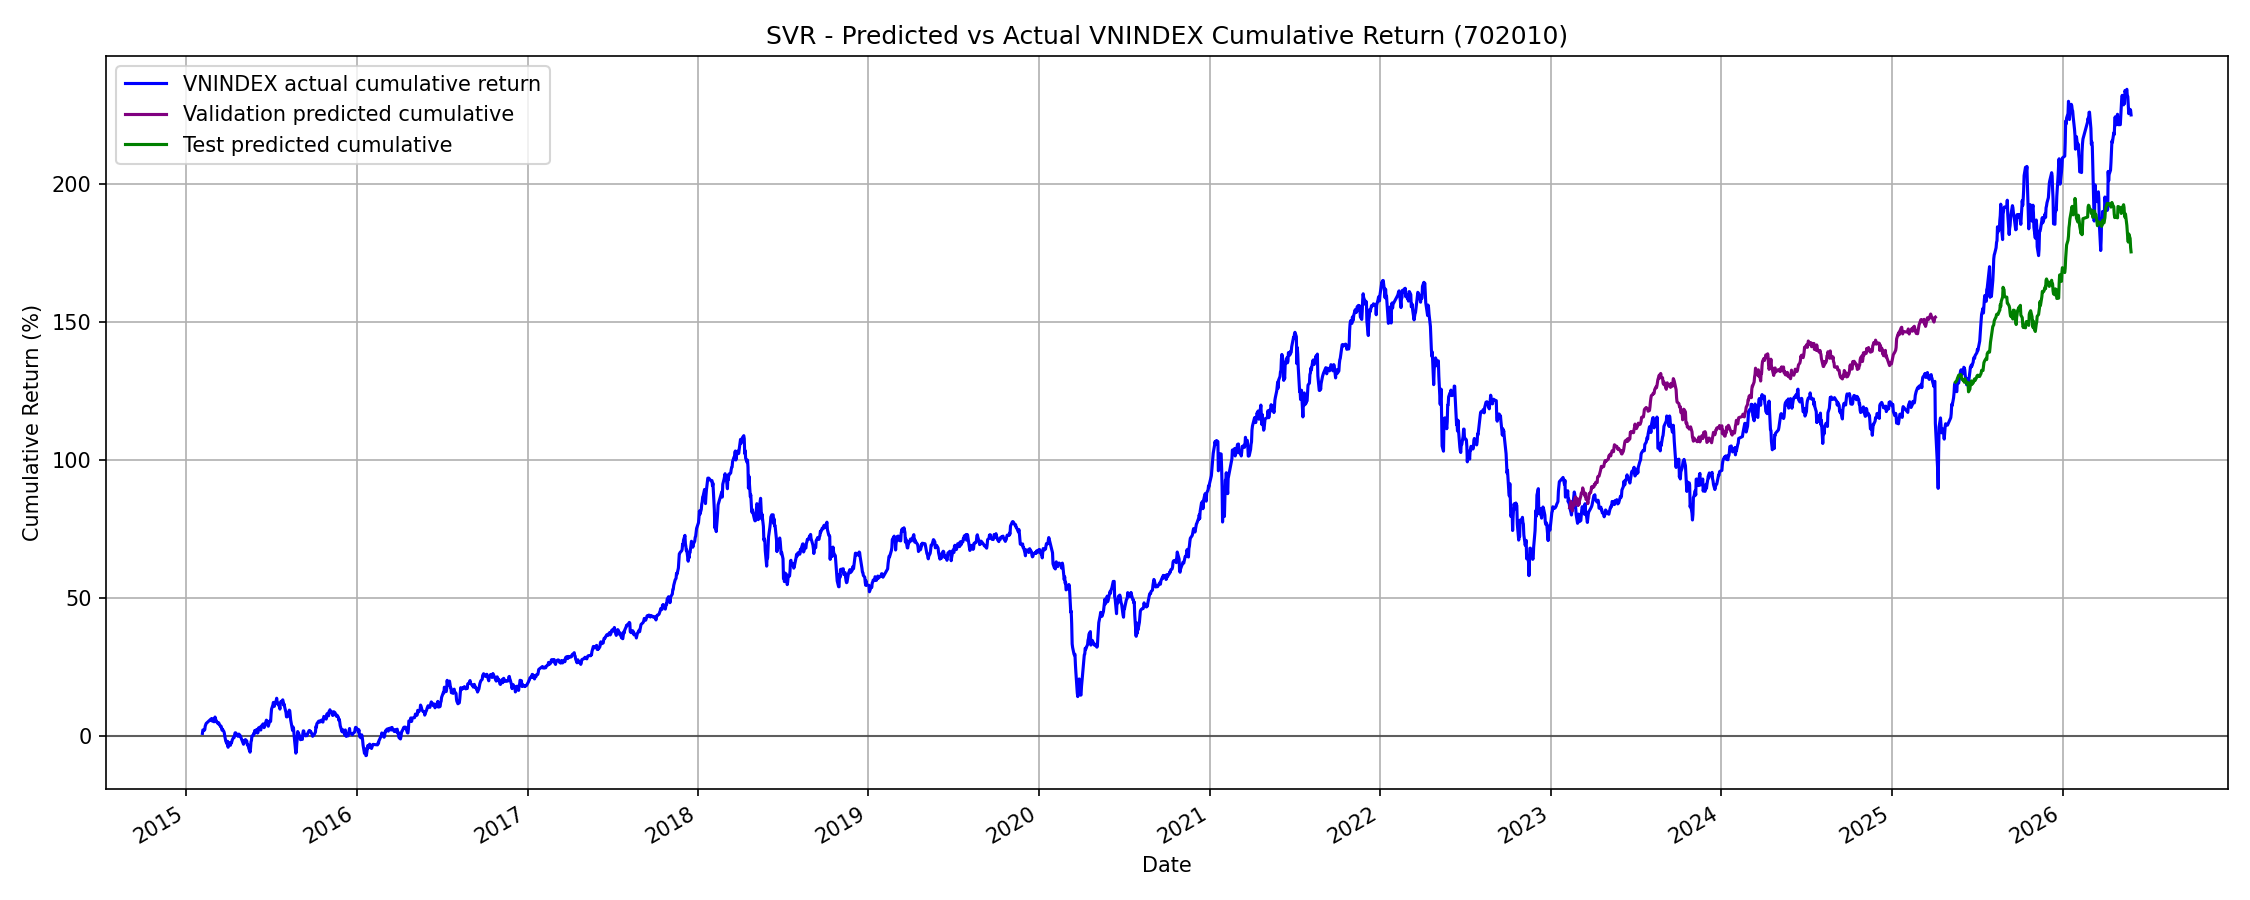
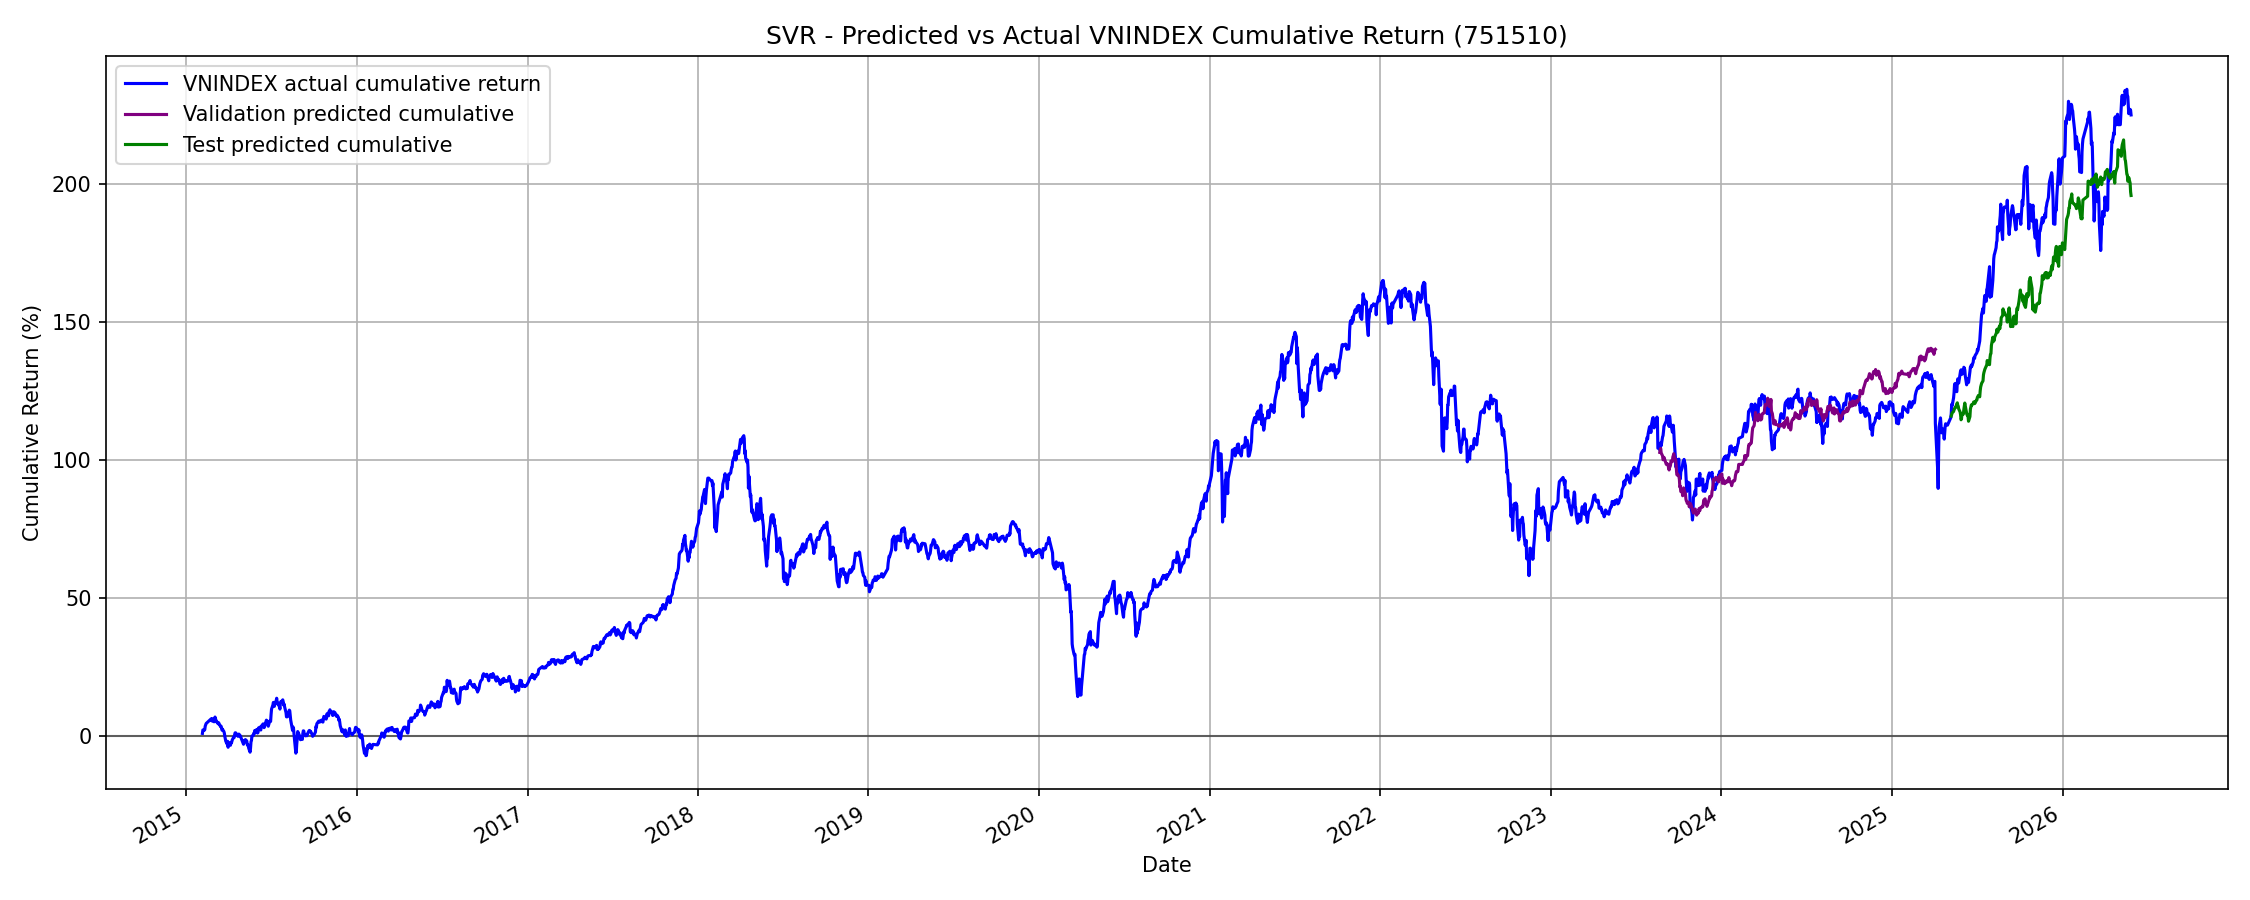
SVR

diff --git a/Model/SVR/svr_pipeline_75_15_10_ver2.py b/Model/SVR/svr_pipeline_75_15_10_ver2.py
@@ -1,0 +1,272 @@
+from __future__ import annotations
+
+import argparse
+import sys
+from pathlib import Path
+
+import matplotlib.dates as mdates
+import matplotlib.pyplot as plt
+import numpy as np
+import pandas as pd
+from sklearn.metrics import mean_absolute_error, mean_squared_error
+from sklearn.svm import SVR
+
+sys.path.append(str(Path(__file__).resolve().parents[1]))
+from vnindex_feature_utils import (  # noqa: E402
+    DEFAULT_PROCESSED_DATA_PATH,
+    FEATURE_COLUMNS,
+    RETURN_1D_TARGET_COLUMN,
+    SPLIT_RATIOS,
+    create_sequence_windows,
+    load_feature_data,
+    scale_feature_splits,
+    split_dataframe,
+)
+
+
+def train_svr(
+    x_train: np.ndarray,
+    y_train: np.ndarray,
+    c: float,
+    gamma: str | float,
+    epsilon: float,
+) -> SVR:
+    model = SVR(kernel="rbf", C=c, gamma=gamma, epsilon=epsilon)
+    model.fit(x_train, np.asarray(y_train).ravel())
+    return model
+
+
+def direction_accuracy(y_true: np.ndarray, y_pred: np.ndarray) -> float:
+    true_direction = np.asarray(y_true) > 0
+    pred_direction = np.asarray(y_pred) > 0
+    return float(np.mean(true_direction == pred_direction))
+
+
+def evaluate_return_predictions(y_true: np.ndarray, y_pred: np.ndarray) -> dict[str, float]:
+    y_true = np.asarray(y_true).ravel()
+    y_pred = np.asarray(y_pred).ravel()
+    return {
+        "mae": float(mean_absolute_error(y_true, y_pred)),
+        "rmse": float(np.sqrt(mean_squared_error(y_true, y_pred))),
+        "direction_accuracy": direction_accuracy(y_true, y_pred),
+        "mean_true_return": float(np.mean(y_true)),
+        "mean_pred_return": float(np.mean(y_pred)),
+    }
+
+
+def inverse_scaled_return(values: np.ndarray, y_scaler) -> np.ndarray:
+    return y_scaler.inverse_transform(np.asarray(values).reshape(-1, 1)).ravel()
+
+
+def predict_and_evaluate(
+    model: SVR,
+    x_values: np.ndarray,
+    y_values: np.ndarray,
+    y_scaler,
+) -> tuple[np.ndarray, np.ndarray, dict[str, float]]:
+    pred_scaled = model.predict(x_values)
+    y_true = inverse_scaled_return(y_values, y_scaler)
+    y_pred = inverse_scaled_return(pred_scaled, y_scaler)
+    return y_true, y_pred, evaluate_return_predictions(y_true, y_pred)
+
+
+def cumulative_return(daily_returns: np.ndarray) -> np.ndarray:
+    return np.cumprod(1 + np.asarray(daily_returns).ravel()) - 1
+
+
+def cumulative_return_from_base(base_return: float, daily_returns: np.ndarray) -> np.ndarray:
+    return (1 + base_return) * np.cumprod(1 + np.asarray(daily_returns).ravel()) - 1
+
+
+def window_target_dates(split_df, look_back: int):
+    date_column = "Target_Date_1D" if "Target_Date_1D" in split_df.columns else "Date"
+    return pd.to_datetime(split_df[date_column].iloc[look_back - 1 :], errors="coerce")
+
+
+def window_current_returns(split_df, look_back: int) -> np.ndarray:
+    return split_df["Return"].iloc[look_back - 1 :].to_numpy(dtype=float)
+
+
+def plot_cumulative_predictions(
+    train,
+    val,
+    test,
+    val_true: np.ndarray,
+    val_pred: np.ndarray,
+    test_true: np.ndarray,
+    test_pred: np.ndarray,
+    look_back: int,
+    split_code: str,
+    output_path: str | Path,
+) -> None:
+    date_column = "Target_Date_1D" if "Target_Date_1D" in train.columns else "Date"
+    all_dates = pd.to_datetime(
+        pd.concat(
+            [train[date_column], val[date_column], test[date_column]],
+            ignore_index=True,
+        ),
+        errors="coerce",
+    )
+    all_true_returns = pd.concat(
+        [
+            train[RETURN_1D_TARGET_COLUMN],
+            val[RETURN_1D_TARGET_COLUMN],
+            test[RETURN_1D_TARGET_COLUMN],
+        ],
+        ignore_index=True,
+    ).to_numpy(dtype=float)
+    all_true_cum = cumulative_return(all_true_returns)
+
+    val_dates = window_target_dates(val, look_back)
+    test_dates = window_target_dates(test, look_back)
+
+    val_start_pos = len(train) + look_back - 1
+    test_start_pos = len(train) + len(val) + look_back - 1
+    val_base = all_true_cum[val_start_pos - 1] if val_start_pos > 0 else 0.0
+    test_base = all_true_cum[test_start_pos - 1] if test_start_pos > 0 else 0.0
+    val_pred_cum = cumulative_return_from_base(val_base, val_pred)
+    test_pred_cum = cumulative_return_from_base(test_base, test_pred)
+
+    fig, ax = plt.subplots(figsize=(15, 6))
+    ax.axhline(0, color="black", linewidth=1, alpha=0.5)
+    ax.plot(all_dates, all_true_cum * 100, label="VNINDEX actual cumulative return", color="blue")
+    ax.plot(val_dates, val_pred_cum * 100, label="Validation predicted cumulative", color="purple")
+    ax.plot(test_dates, test_pred_cum * 100, label="Test predicted cumulative", color="green")
+    ax.set_title(f"SVR - Predicted vs Actual VNINDEX Cumulative Return ({split_code})")
+    ax.set_xlabel("Date")
+    ax.set_ylabel("Cumulative Return (%)")
+    ax.xaxis.set_major_locator(mdates.YearLocator())
+    ax.xaxis.set_major_formatter(mdates.DateFormatter("%Y"))
+    ax.legend()
+    ax.grid(True)
+    fig.autofmt_xdate()
+    fig.tight_layout()
+
+    output_path = Path(output_path)
+    output_path.parent.mkdir(parents=True, exist_ok=True)
+    fig.savefig(output_path, dpi=150)
+    plt.close(fig)
+
+
+def run_pipeline(args: argparse.Namespace) -> dict[str, dict[str, float]]:
+    df = load_feature_data(args.data, target_column=RETURN_1D_TARGET_COLUMN)
+    train, val, test, sizes = split_dataframe(df, args.split)
+    x_train_scaled, y_train_scaled, x_val_scaled, y_val_scaled, x_test_scaled, y_test_scaled, _, y_scaler = scale_feature_splits(
+        train,
+        val,
+        test,
+        target_column=RETURN_1D_TARGET_COLUMN,
+    )
+
+    x_train, y_train = create_sequence_windows(x_train_scaled, y_train_scaled, args.look_back)
+    x_val, y_val = create_sequence_windows(x_val_scaled, y_val_scaled, args.look_back)
+    x_test, y_test = create_sequence_windows(x_test_scaled, y_test_scaled, args.look_back)
+    sequence_shapes = {
+        "x_train_sequence": x_train.shape,
+        "x_val_sequence": x_val.shape,
+        "x_test_sequence": x_test.shape,
+    }
+    x_train = x_train.reshape(x_train.shape[0], -1)
+    x_val = x_val.reshape(x_val.shape[0], -1)
+    x_test = x_test.reshape(x_test.shape[0], -1)
+    flattened_shapes = {
+        "x_train_flat": x_train.shape,
+        "x_val_flat": x_val.shape,
+        "x_test_flat": x_test.shape,
+    }
+
+    model = train_svr(x_train, y_train, args.c, args.gamma, args.epsilon)
+    val_true, val_pred, val_metrics = predict_and_evaluate(model, x_val, y_val, y_scaler)
+    test_true, test_pred, test_metrics = predict_and_evaluate(model, x_test, y_test, y_scaler)
+
+    current_return_val = window_current_returns(val, args.look_back)
+    current_return_test = window_current_returns(test, args.look_back)
+    train_return_mean = float(train[RETURN_1D_TARGET_COLUMN].mean())
+    mean_val = np.full_like(val_true, train_return_mean)
+    mean_test = np.full_like(test_true, train_return_mean)
+    zero_val = np.zeros_like(val_true)
+    zero_test = np.zeros_like(test_true)
+
+    current_baseline_val = evaluate_return_predictions(val_true, current_return_val)
+    current_baseline_test = evaluate_return_predictions(test_true, current_return_test)
+    mean_baseline_val = evaluate_return_predictions(val_true, mean_val)
+    mean_baseline_test = evaluate_return_predictions(test_true, mean_test)
+    zero_baseline_val = evaluate_return_predictions(val_true, zero_val)
+    zero_baseline_test = evaluate_return_predictions(test_true, zero_test)
+
+    if args.plot_path:
+        plot_cumulative_predictions(
+            train,
+            val,
+            test,
+            val_true,
+            val_pred,
+            test_true,
+            test_pred,
+            args.look_back,
+            args.split,
+            args.plot_path,
+        )
+
+    print(f"Data: {Path(args.data)}")
+    print(f"Target: {RETURN_1D_TARGET_COLUMN}")
+    print(f"Look-back sequence length: {args.look_back} trading days")
+    print(f"Features: {FEATURE_COLUMNS}")
+    print(f"Sequence shapes before SVR flattening: {sequence_shapes}")
+    print(f"Flattened shapes used by SVR: {flattened_shapes}")
+    print(f"Split sizes: {sizes}")
+    print(f"Validation: {val_metrics}")
+    print(f"Test: {test_metrics}")
+    print(f"Current-return baseline validation: {current_baseline_val}")
+    print(f"Current-return baseline test: {current_baseline_test}")
+    print(f"Train-mean baseline validation: {mean_baseline_val}")
+    print(f"Train-mean baseline test: {mean_baseline_test}")
+    print(f"Zero baseline validation: {zero_baseline_val}")
+    print(f"Zero baseline test: {zero_baseline_test}")
+
+    return {
+        "validation": val_metrics,
+        "test": test_metrics,
+        "current_baseline_validation": current_baseline_val,
+        "current_baseline_test": current_baseline_test,
+        "mean_baseline_validation": mean_baseline_val,
+        "mean_baseline_test": mean_baseline_test,
+        "zero_baseline_validation": zero_baseline_val,
+        "zero_baseline_test": zero_baseline_test,
+    }
+
+
+def parse_args() -> argparse.Namespace:
+    parser = argparse.ArgumentParser(
+        description="Run SVR next-day return prediction and plot cumulative return."
+    )
+    parser.add_argument("--data", default=DEFAULT_PROCESSED_DATA_PATH, type=Path)
+    parser.add_argument("--split", default="751510", choices=sorted(SPLIT_RATIOS))
+    parser.add_argument("--look-back", default=30, type=int)
+    parser.add_argument("--c", default=10.0, type=float)
+    parser.add_argument("--gamma", default="scale")
+    parser.add_argument("--epsilon", default=0.001, type=float)
+    parser.add_argument(
+        "--plot-path",
+        default=Path(__file__).resolve().parent / "svr_daily_return_cumulative_prediction.png",
+        type=Path,
+        help="Set to an empty string to skip plot output.",
+    )
+    args = parser.parse_args()
+    if args.plot_path == Path("."):
+        args.plot_path = None
+    if isinstance(args.gamma, str) and args.gamma not in {"scale", "auto"}:
+        try:
+            args.gamma = float(args.gamma)
+        except ValueError:
+            pass
+    return args
+
+
+def main() -> None:
+    args = parse_args()
+    run_pipeline(args)
+
+
+if __name__ == "__main__":
+    main()

diff --git a/Model/vnindex_feature_utils.py b/Model/vnindex_feature_utils.py
@@ -15,6 +15,7 @@ SPLIT_RATIOS = {
     "652510": (0.65, 0.25, 0.10),
     "702010": (0.70, 0.20, 0.10),
     "751510": (0.75, 0.15, 0.10),
+    "801010": (0.80, 0.10, 0.10),
 }
 
 TARGET_COLUMN = "Next_Close"
